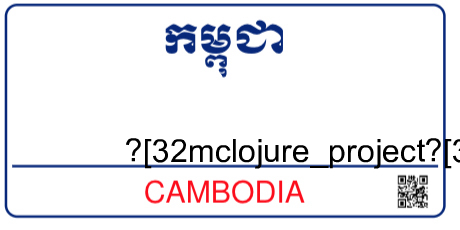
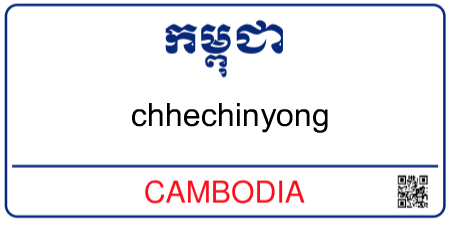
config

Changed region(s): [[0.2739, 0.5783, 1.0, 0.7304], [0.2739, 0.4565, 0.7304, 0.5783]]

diff --git a/app.js b/app.js
@@ -22,7 +22,7 @@ var loadedImage;
       loadedImage = image;
       return (Jimp.loadFont(Jimp.FONT_SANS_32_BLACK));
     })
-    .then(  function(font) {
+    .then(function(font) {
       var textWidth = Jimp.measureText(font, newName);
       var textHight = Jimp.measureTextHeight(font, newName);
       loadedImage
@@ -30,25 +30,16 @@ var loadedImage;
           font,
           loadedImage.bitmap.width/2- textWidth/2,
           loadedImage.bitmap.height/2- textHight/2, 
-          {   
-            text:newName,
-            //alignmentX: Jimp.HORIZONTAL_ALIGN_CENTER,                                                                                                                      
-            //alignmentY: Jimp.VERTICAL_ALIGN_MIDDLE,
-            }, textWidth, textHight)
-        
+          {text:newName,}, textWidth, textHight)
            
         
-        .write("./img-temp/hello.jpg")
-          
-      
-        
-      
-    .catch(function(err) {
-      console.error(err);
-    });
-    
-}
-    )}
+        .write("./img-temp/hello.jpg")  }  
+        .catch(function(err) {
+      console.error(err);})
+    );
+  }
+
+  
 app.use(cors());
 app.use(bodyParser.urlencoded({ extended: true }));
 
@@ -60,17 +51,17 @@ app.get("/", (req, res) => {
 app.post("/name", async(req, res) => {
   const newName = {name: req.body.name};
   console.log(newName.name)
-  writeImg(newName.name)
-  console.log("hello1")
-  res.sendFile(path.join(__dirname + "/img-temp/hello.jpg"));
-  console.log('hello')
+  // writeImg(newName.name)
+  // console.log("hello1")
+  // res.sendFile(path.join(__dirname + "/img-temp/hello.jpg"));
+  // console.log('hello')
   //res.sendFile(path.join(__dirname + "/img-temp/hello.png"));
   
-  //res.send('hello');
-  // setTimeout(() => {
-  //   res.sendFile(path.join(__dirname + "/img-temp/hello.png"));
-  // }, 5000);
-  // res.send("Hello");
+  
+  setTimeout(() => {
+    res.sendFile(path.join(__dirname + "/img-temp/hello.png"));
+  }, 5000);
+  res.send("Hello");
 });
 
 
